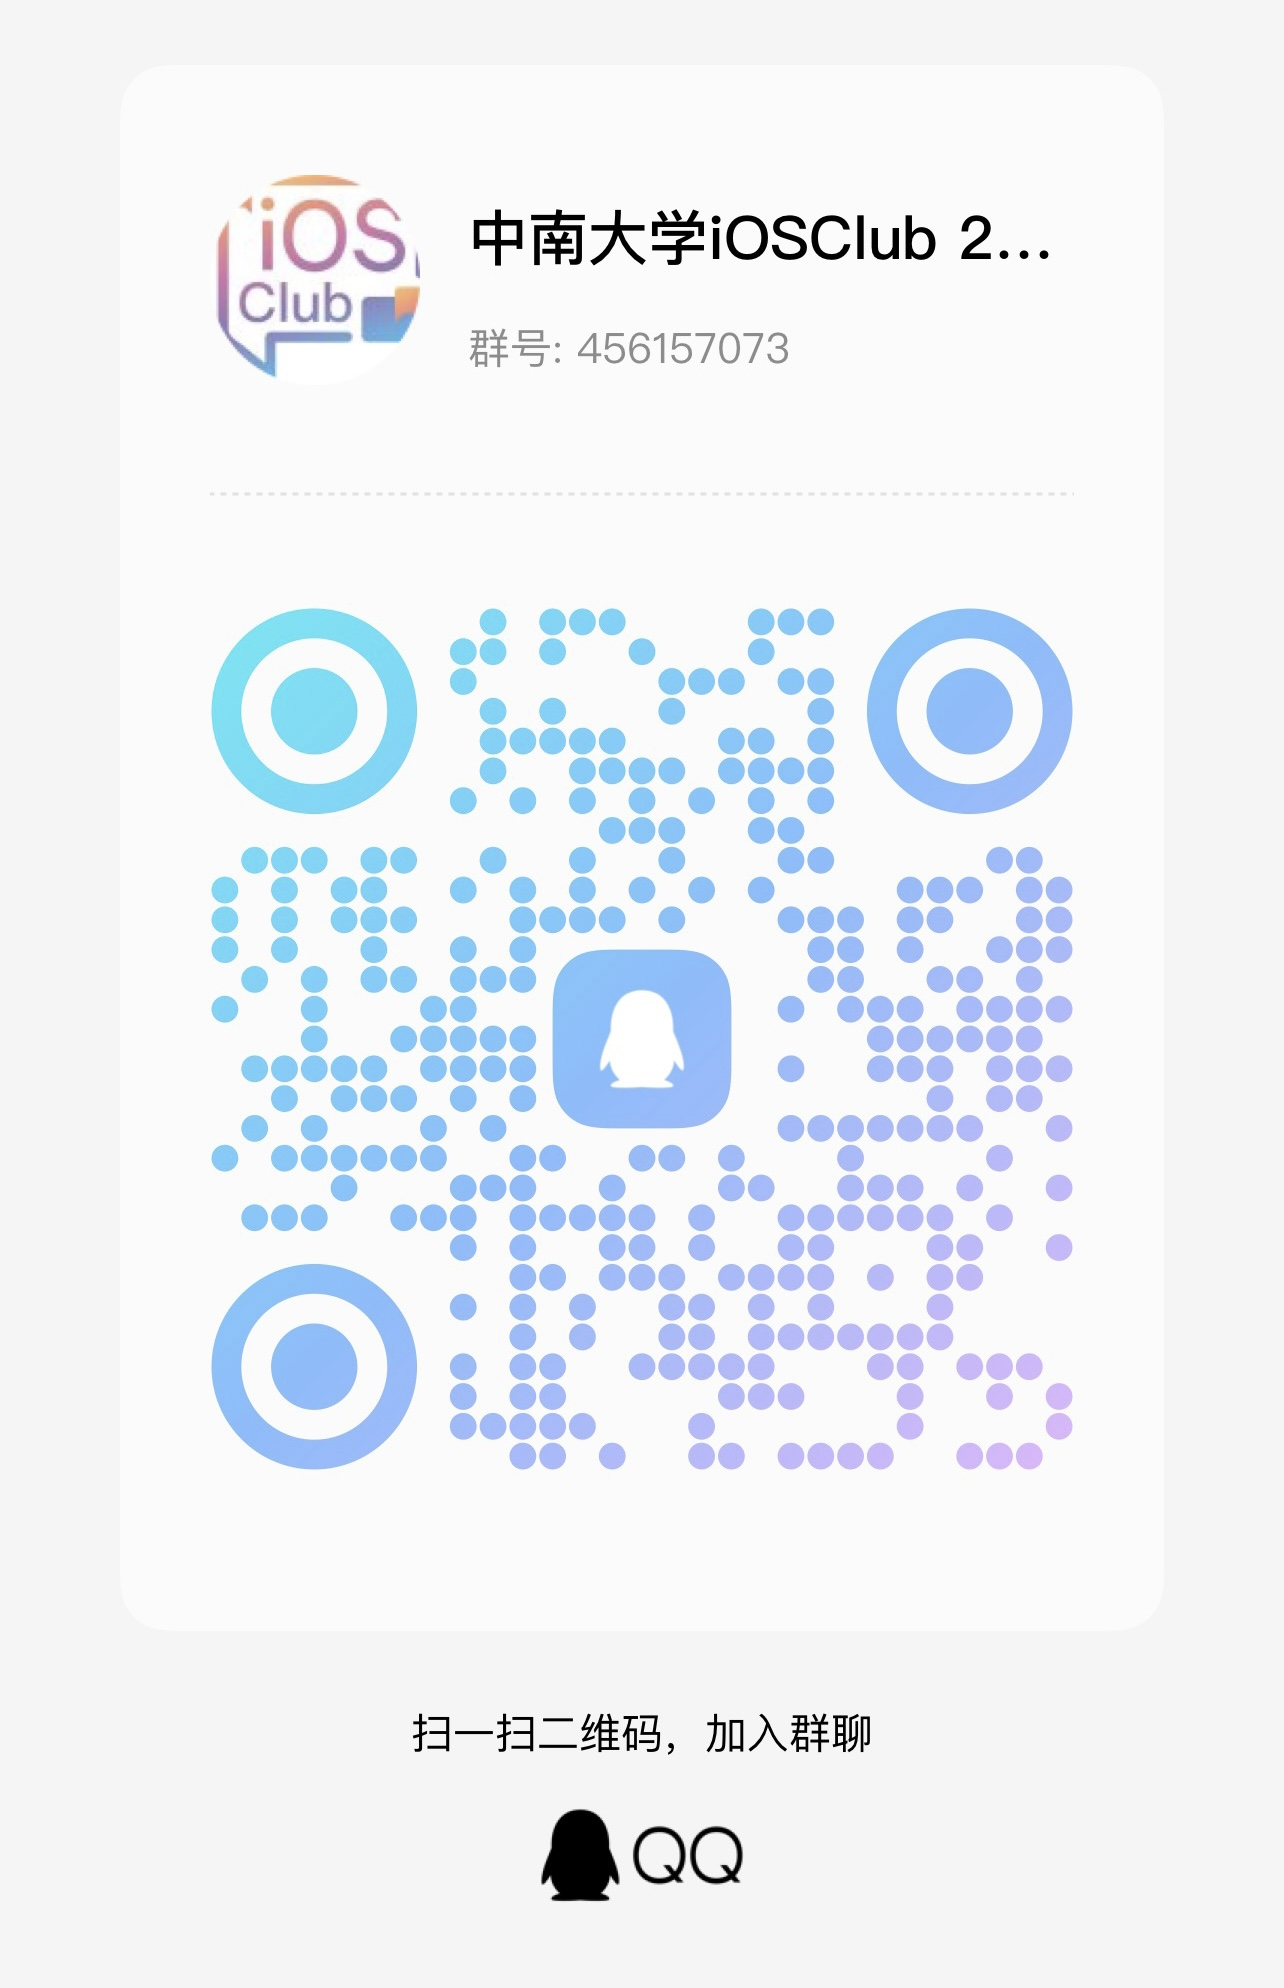
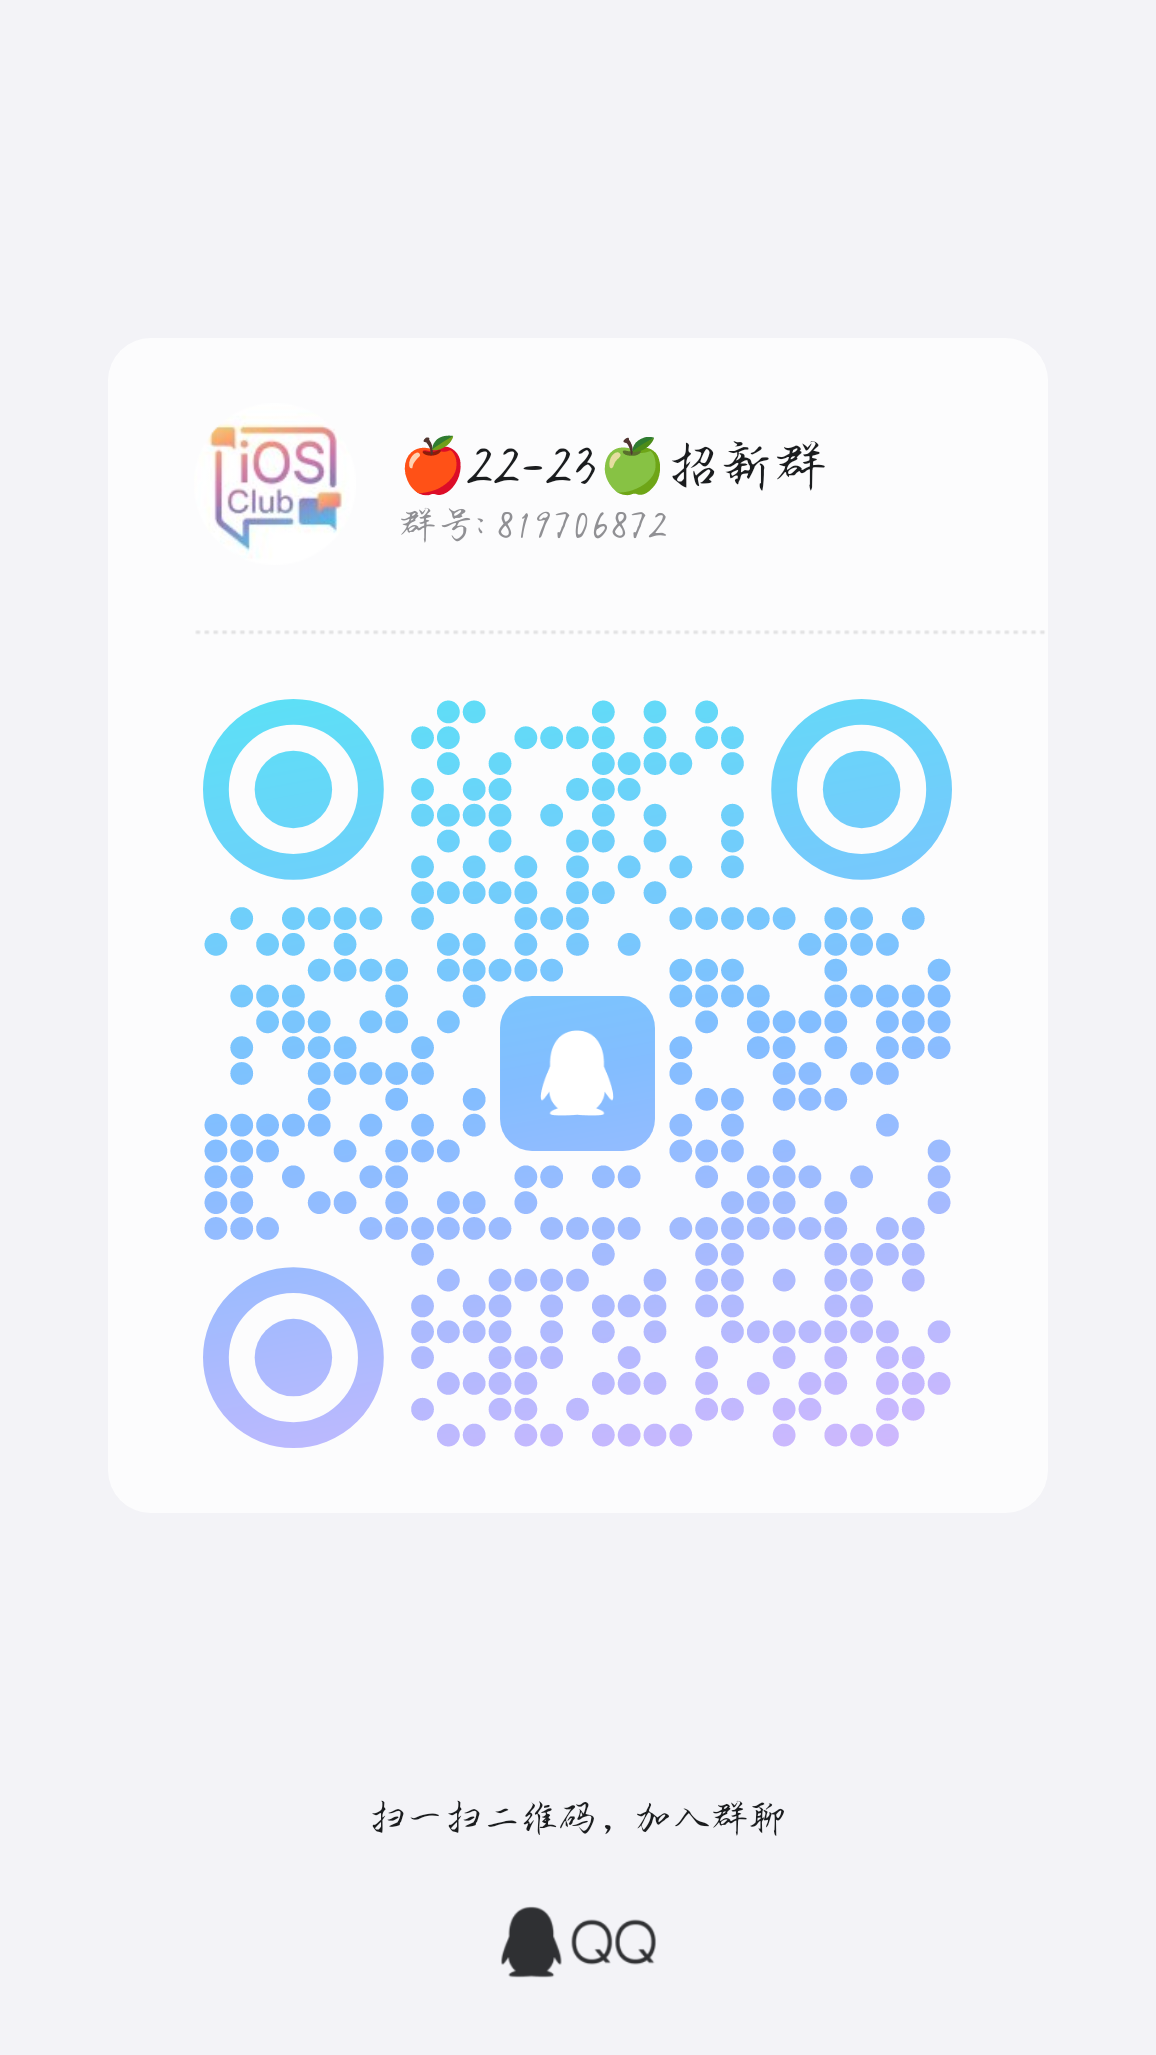
修改为本届信息

diff --git a/src/routes/joinUs.svelte b/src/routes/joinUs.svelte
@@ -34,11 +34,11 @@
 			>
 				<CardTitleBlock>
 					<div class="flex flex-col lg:flex-row justify-center items-center gap-5">
-						<h1 class="text-3xl truncate">iOSClub 22届招新</h1>
+						<h1 class="text-3xl truncate">iOSClub 23届招新</h1>
 					</div>
 				</CardTitleBlock>
 				<CardContextBlock>
-					<a href="/apply22">
+					<a href="/apply23">
 						<button class="z-10 bg-blue-500 w-32 h-10 rounded-3xl text-white"> 申请 </button>
 					</a>
 				</CardContextBlock>
@@ -51,7 +51,7 @@
 			<CardContextBlock>
 				<h1 class="font-bold">我们在找的你🤝</h1>
 				<ul>
-					<li>1. 是中南大学22级的同学</li>
+					<li>1. 是中南大学23级的同学</li>
 					<li>2. 对技术有着一定热情</li>
 					<li>3. 觉得自己的想法十分独特, 愿意将想法付诸行动</li>
 					<li>4. 想认识其他同样独特的人</li>

diff --git a/src/components/apply/pages/Done.svelte b/src/components/apply/pages/Done.svelte
@@ -7,5 +7,5 @@
 	<p>请扫码或复制群号加入招新群，等候我们的通知</p>
 	<Img clazz="w-96" src="apply/QQgroup.png" alt="qq chat group qrcode." />
 	<p>群号</p>
-	<CopyArea str="456157073" />
+	<CopyArea str="819706872" />
 </div>

diff --git a/src/routes/apply23.svelte b/src/routes/apply23.svelte
@@ -71,7 +71,7 @@
 	});
 
 	afterUpdate(() => {
-		local.storeWithKey('apply22', sections);
+		local.storeWithKey('apply23', sections);
 	});
 </script>
 
